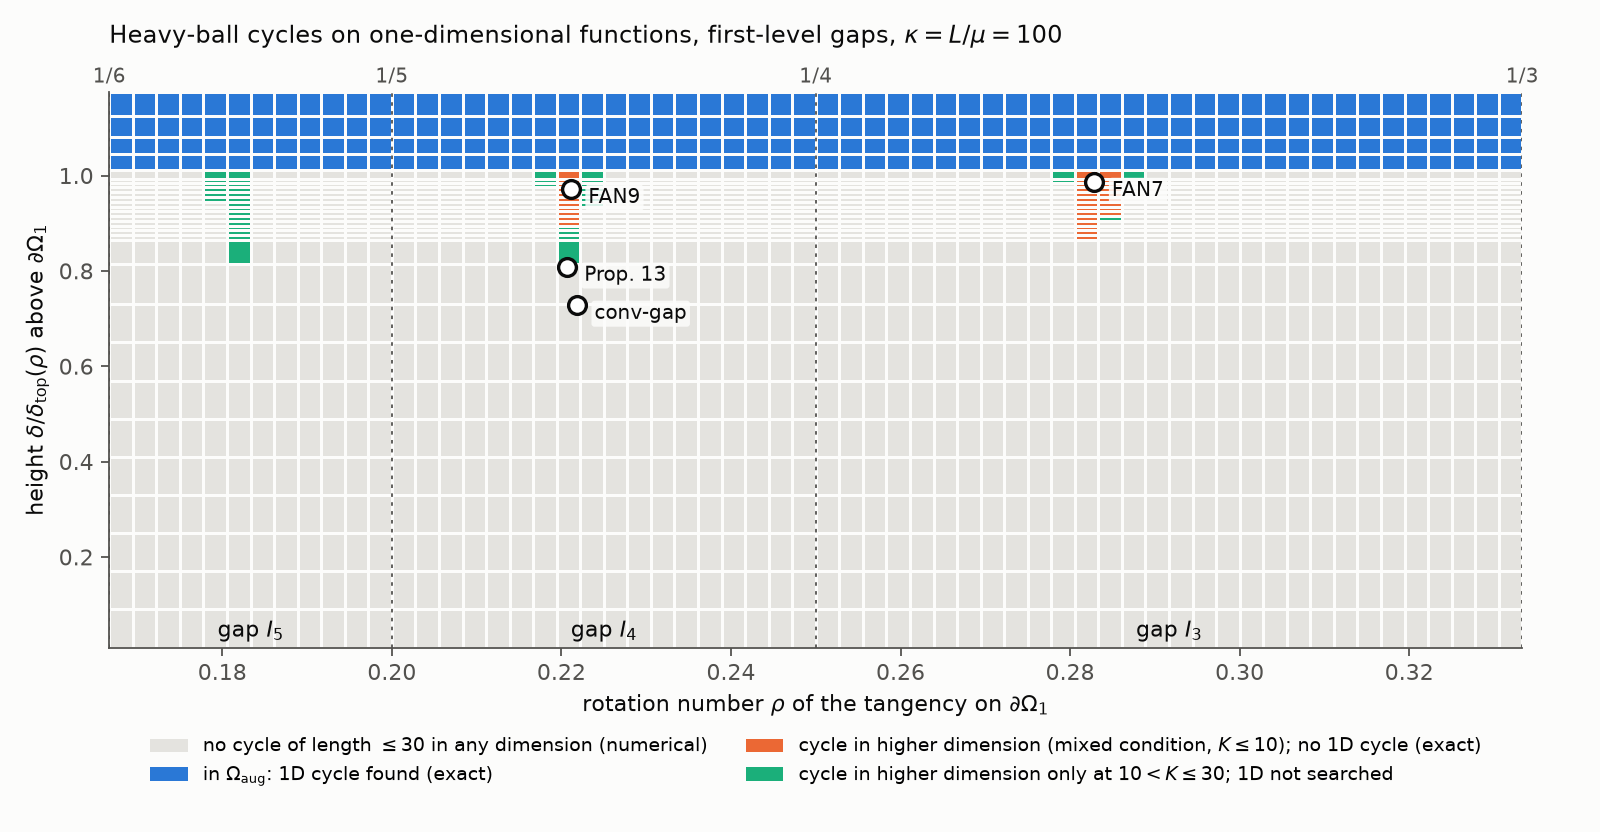
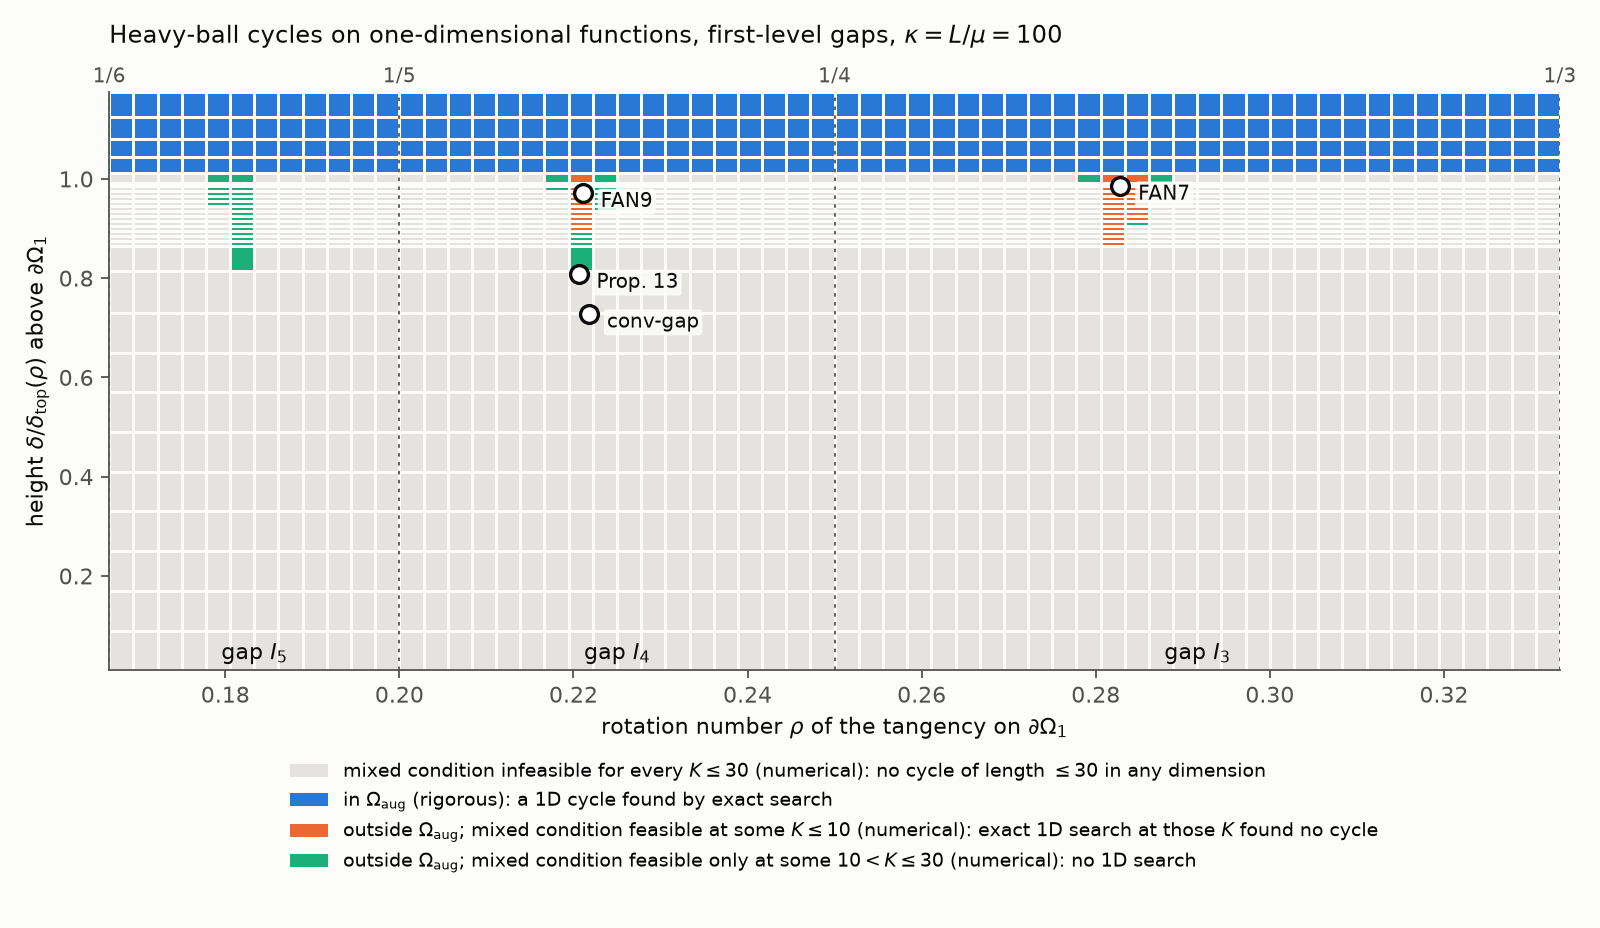
Phase-diagram legend: mark the mixed-condition classes as numerical
The orange class no longer reads as 'no 1D cycle' for all K <= 10: the exact
1D search ran only at the lengths that passed the floating-point mixed-condition
filter, and higher-dimensional cycles in those cells are not certified cell by
cell. README table and paragraph say the same; Omega_aug membership is marked
rigorous (rechecked in all 1740 cells).

Changed region(s): [[0.0, 0.0312, 1.0, 0.9375]]

diff --git a/scripts/plot_phase_diagram.py b/scripts/plot_phase_diagram.py
@@ -23,10 +23,13 @@ from scripts.phase_diagram import gap_top  # noqa: E402
 
 SURFACE, INK, INK2 = "#fcfcfb", "#0b0b0b", "#52514e"
 CLASSES = [  # (label, color); order = index in the colormap
-    (r"no cycle of length $\leq 30$ in any dimension (numerical)", "#e4e3df"),
-    (r"in $\Omega_{\rm aug}$: 1D cycle found (exact)", "#2a78d6"),
-    (r"cycle in higher dimension (mixed condition, $K \leq 10$); no 1D cycle (exact)", "#eb6834"),
-    (r"cycle in higher dimension only at $10 < K \leq 30$; 1D not searched", "#1baf7a"),
+    (r"mixed condition infeasible for every $K \leq 30$ (numerical): no cycle of length $\leq 30$ in any dimension",
+     "#e4e3df"),
+    (r"in $\Omega_{\rm aug}$ (rigorous): a 1D cycle found by exact search", "#2a78d6"),
+    (r"outside $\Omega_{\rm aug}$; mixed condition feasible at some $K \leq 10$ (numerical): exact 1D search at those"
+     r" $K$ found no cycle", "#eb6834"),
+    (r"outside $\Omega_{\rm aug}$; mixed condition feasible only at some $10 < K \leq 30$ (numerical): no 1D search",
+     "#1baf7a"),
     ("on a region boundary: exact search unresolved", "#8a8985"),
 ]
 IDX = {"omega1": 0, "nocycle": 0, "aug": 1, "fan": 2, "fan_long": 3, "unresolved": 4}
@@ -50,7 +53,7 @@ def main():
     Hm = np.array(H)
     h_edges = np.r_[Hm[0] - (Hm[1] - Hm[0]) / 2, (Hm[1:] + Hm[:-1]) / 2, Hm[-1] + (Hm[-1] - Hm[-2]) / 2]
 
-    fig, ax = plt.subplots(figsize=(10, 5.2), facecolor=SURFACE)
+    fig, ax = plt.subplots(figsize=(10, 5.8), facecolor=SURFACE)
     ax.set_facecolor(SURFACE)
     cmap = ListedColormap([c for _, c in CLASSES])
     ax.pcolormesh(r_edges, h_edges, np.ma.masked_invalid(grid), cmap=cmap, vmin=-0.5, vmax=len(CLASSES) - 0.5,
@@ -80,7 +83,7 @@ def main():
     present = {int(v) for v in np.unique(grid[~np.isnan(grid)])}
     ax.legend(handles=[Patch(facecolor=c, edgecolor="none", label=l) for i, (l, c) in enumerate(CLASSES) if i in present],
               loc="upper center",
-              bbox_to_anchor=(0.5, -0.13), ncol=2, frameon=False, fontsize=8.5)
+              bbox_to_anchor=(0.5, -0.13), ncol=1, frameon=False, fontsize=8.5)
     fig.tight_layout()
     os.makedirs(os.path.join(HERE, "..", "figures"), exist_ok=True)
     fig.savefig(os.path.join(HERE, "..", "figures", "phase_diagram_1d_k100.png"), dpi=160, facecolor=SURFACE)

diff --git a/README.md b/README.md
@@ -79,17 +79,21 @@ on 3 cores). Each cell is a rational tuning (denominators ≤ 10⁵):
 
 | cell class | cells | 1D result |
 |---|---|---|
-| in Ω_aug (the K-tongues, K = 3..6, above the gaps) | 240 | a 1D cycle in **every** cell, of exactly the predicted minimal period K [exact] |
-| outside Ω_aug, mixed condition feasible at some K ≤ 10 (fan tongues 2/7, 2/9, 3/10, …) | 34 | **no 1D cycle** in any of the 36 exact searches (K = 7, 9, 10) [exact] |
-| outside Ω_aug, mixed condition feasible only at 10 < K ≤ 30 (e.g. around Prop. 13, K = 13) | 39 | not searched on the grid |
-| mixed condition infeasible for all K ≤ 30 | 1,427 | no cycle of length ≤ 30 in any dimension [numerical] |
+| in Ω_aug (the K-tongues, K = 3..6, above the gaps; membership rechecked rigorously in every cell) | 240 | a 1D cycle in **every** cell, of exactly the predicted minimal period K [exact] |
+| outside Ω_aug, mixed condition feasible at some K ≤ 10 [numerical] (fan tongues 2/7, 2/9, 3/10, …) | 34 | the exact 1D search found **no cycle** at the lengths that passed the filter (36 searches, K = 7, 9, 10) [exact]; other lengths K ≤ 10 are excluded only by the numerical filter |
+| outside Ω_aug, mixed condition feasible only at some 10 < K ≤ 30 [numerical] (e.g. around Prop. 13, K = 13) | 39 | not searched on the grid |
+| mixed condition infeasible for all K ≤ 30 [numerical] | 1,427 | no cycle of length ≤ 30 in any dimension [numerical] |
 
 So on this grid a 1D cycle was found in every Ω_aug cell (as Fotopoulos et al.'s Thm 4.1 guarantees), and **no
 1D cycle was found outside Ω_aug within the lengths examined**: K ∈ {7, 9, 10} in the 34 fan cells, no 1D search
 in the 39 cells whose first mixed-feasible length exceeds 10, and only lengths K ≤ 30 (numerically, in any
-dimension) in the other 1,427 cells. The grid says nothing about longer cycles in those cells. Cell classes are
-floating-point verdicts; the 1D searches inside the cells are exact. The named tunings (circles) are separate points with their own results in §2.2;
-the neighbouring cells are different tunings. Pasechnyuk-Vilensky's `dmivilensky/Heavy-Ball` already classifies
+dimension) in the other 1,427 cells. The grid says nothing about longer cycles in those cells. The mixed-condition
+classes are floating-point verdicts: which lengths get an exact 1D search, and the existence of higher-dimensional
+cycles in the fan cells (Fotopoulos et al. Prop. 5.1), rest on that numerical filter and are not certified cell
+by cell (the named tunings FAN7, FAN9 and Prop. 13 do have rigorous mixed-condition certificates, §2.5). Ω_aug
+membership was rechecked rigorously in all 1,740 cells, and the 1D searches inside the cells are exact. The named
+tunings (circles) are separate points with their own results in §2.2; the neighbouring cells are different
+tunings. Pasechnyuk-Vilensky's `dmivilensky/Heavy-Ball` already classifies
 these gaps in unrestricted dimension; the new part here is the one-dimensional column.
 
 ### 2.4 Validation against known results (all in `tests/`)
